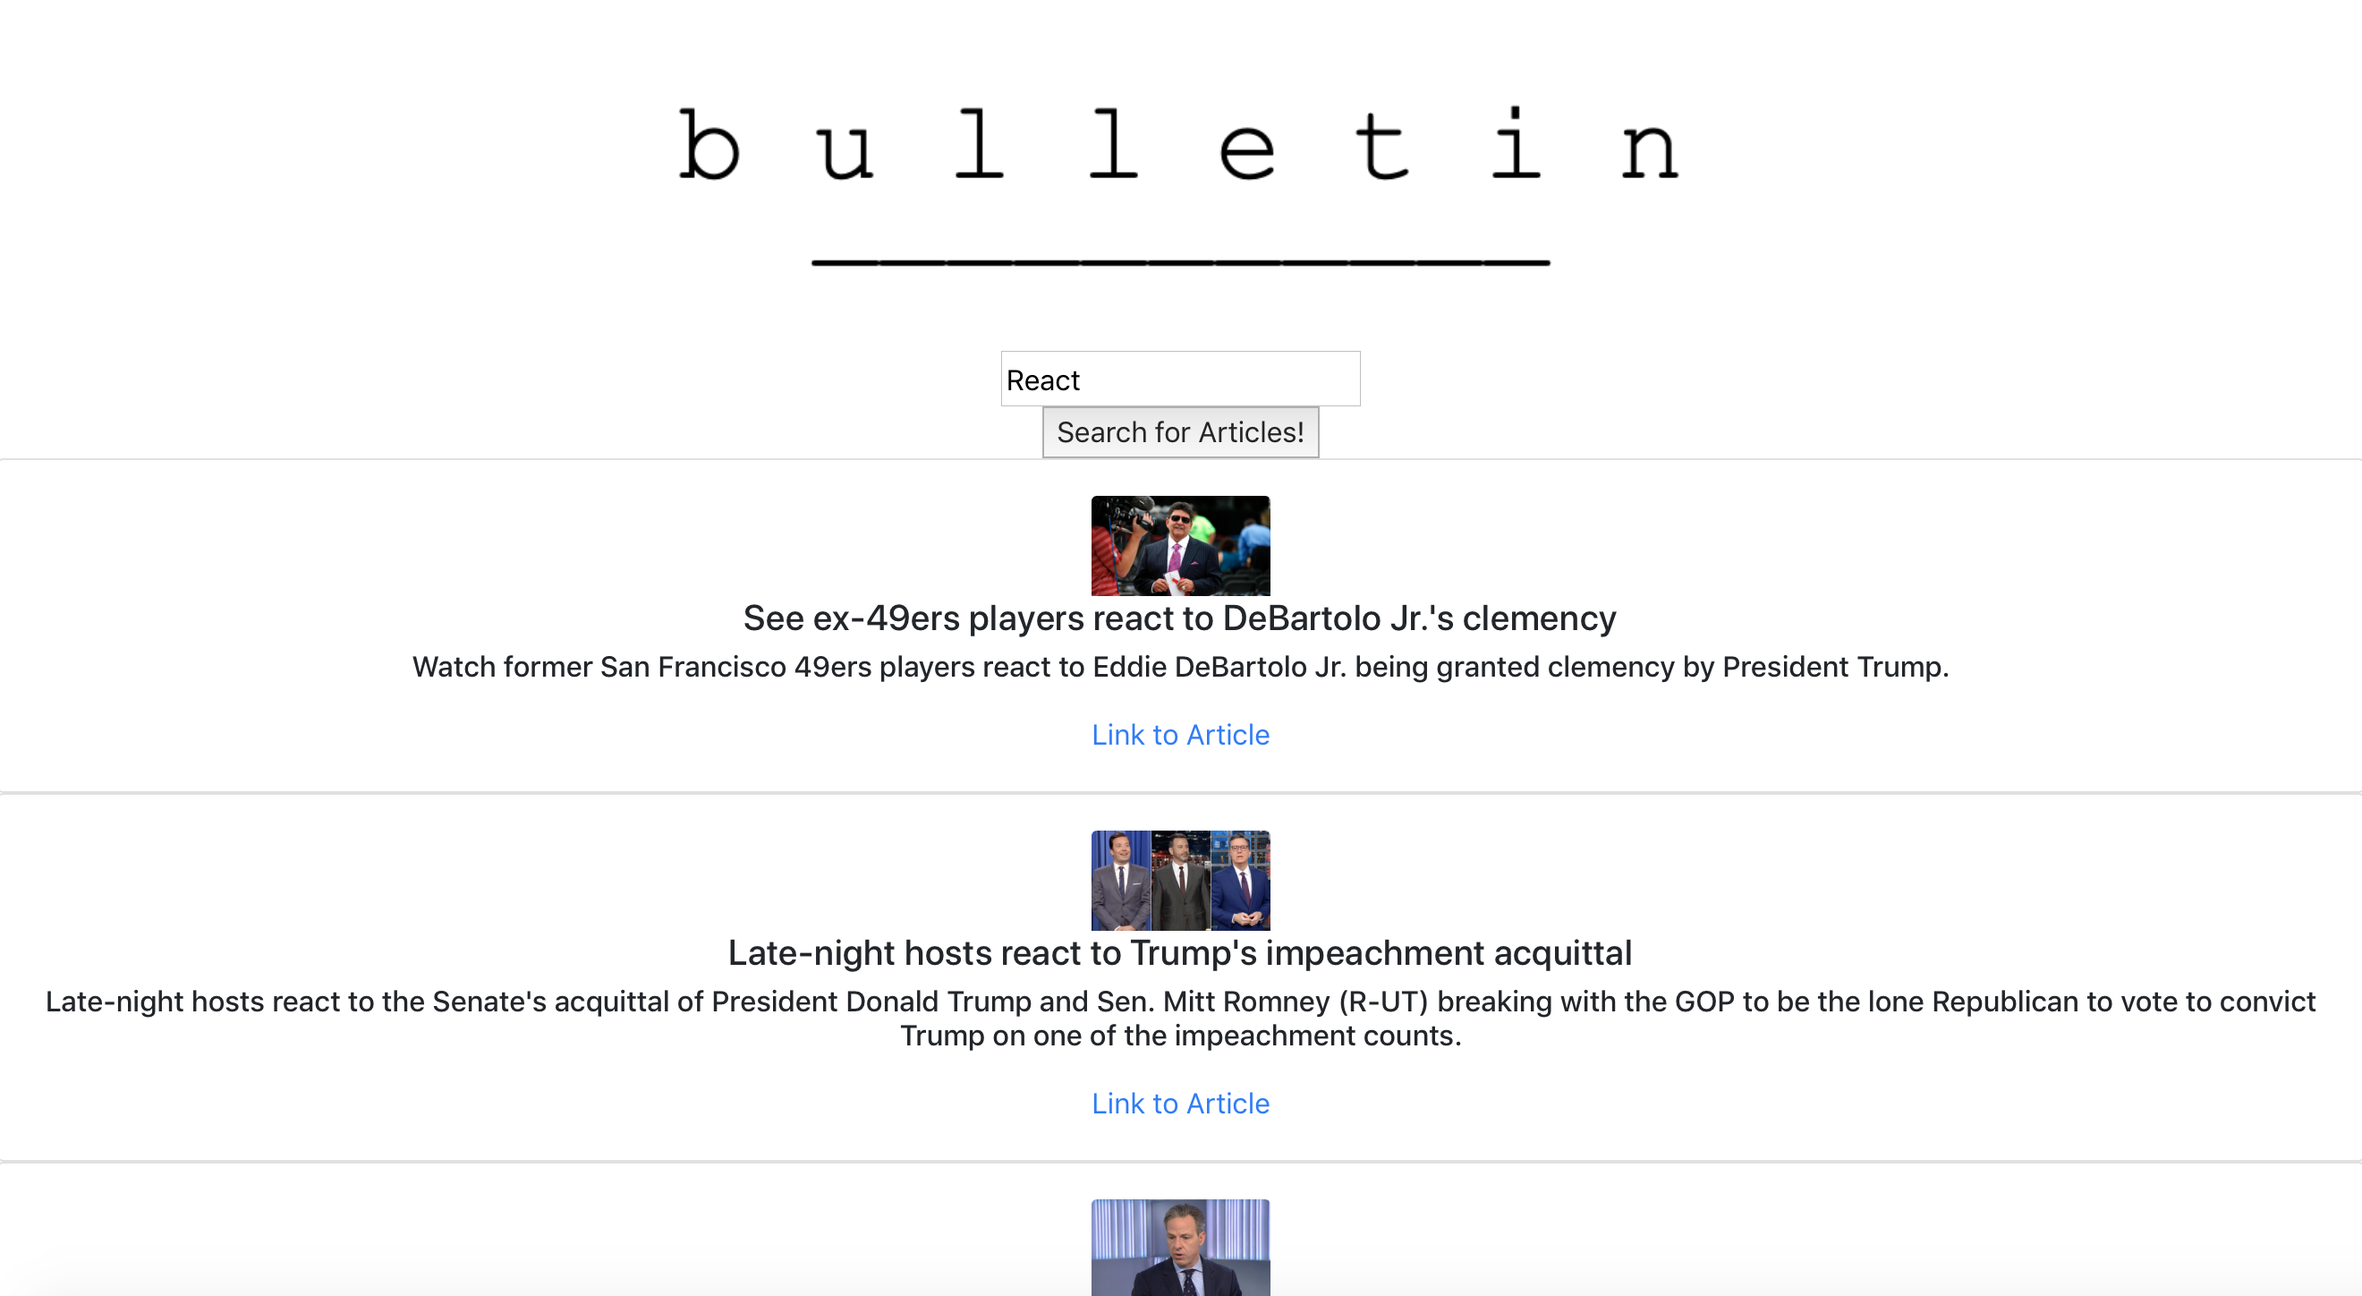
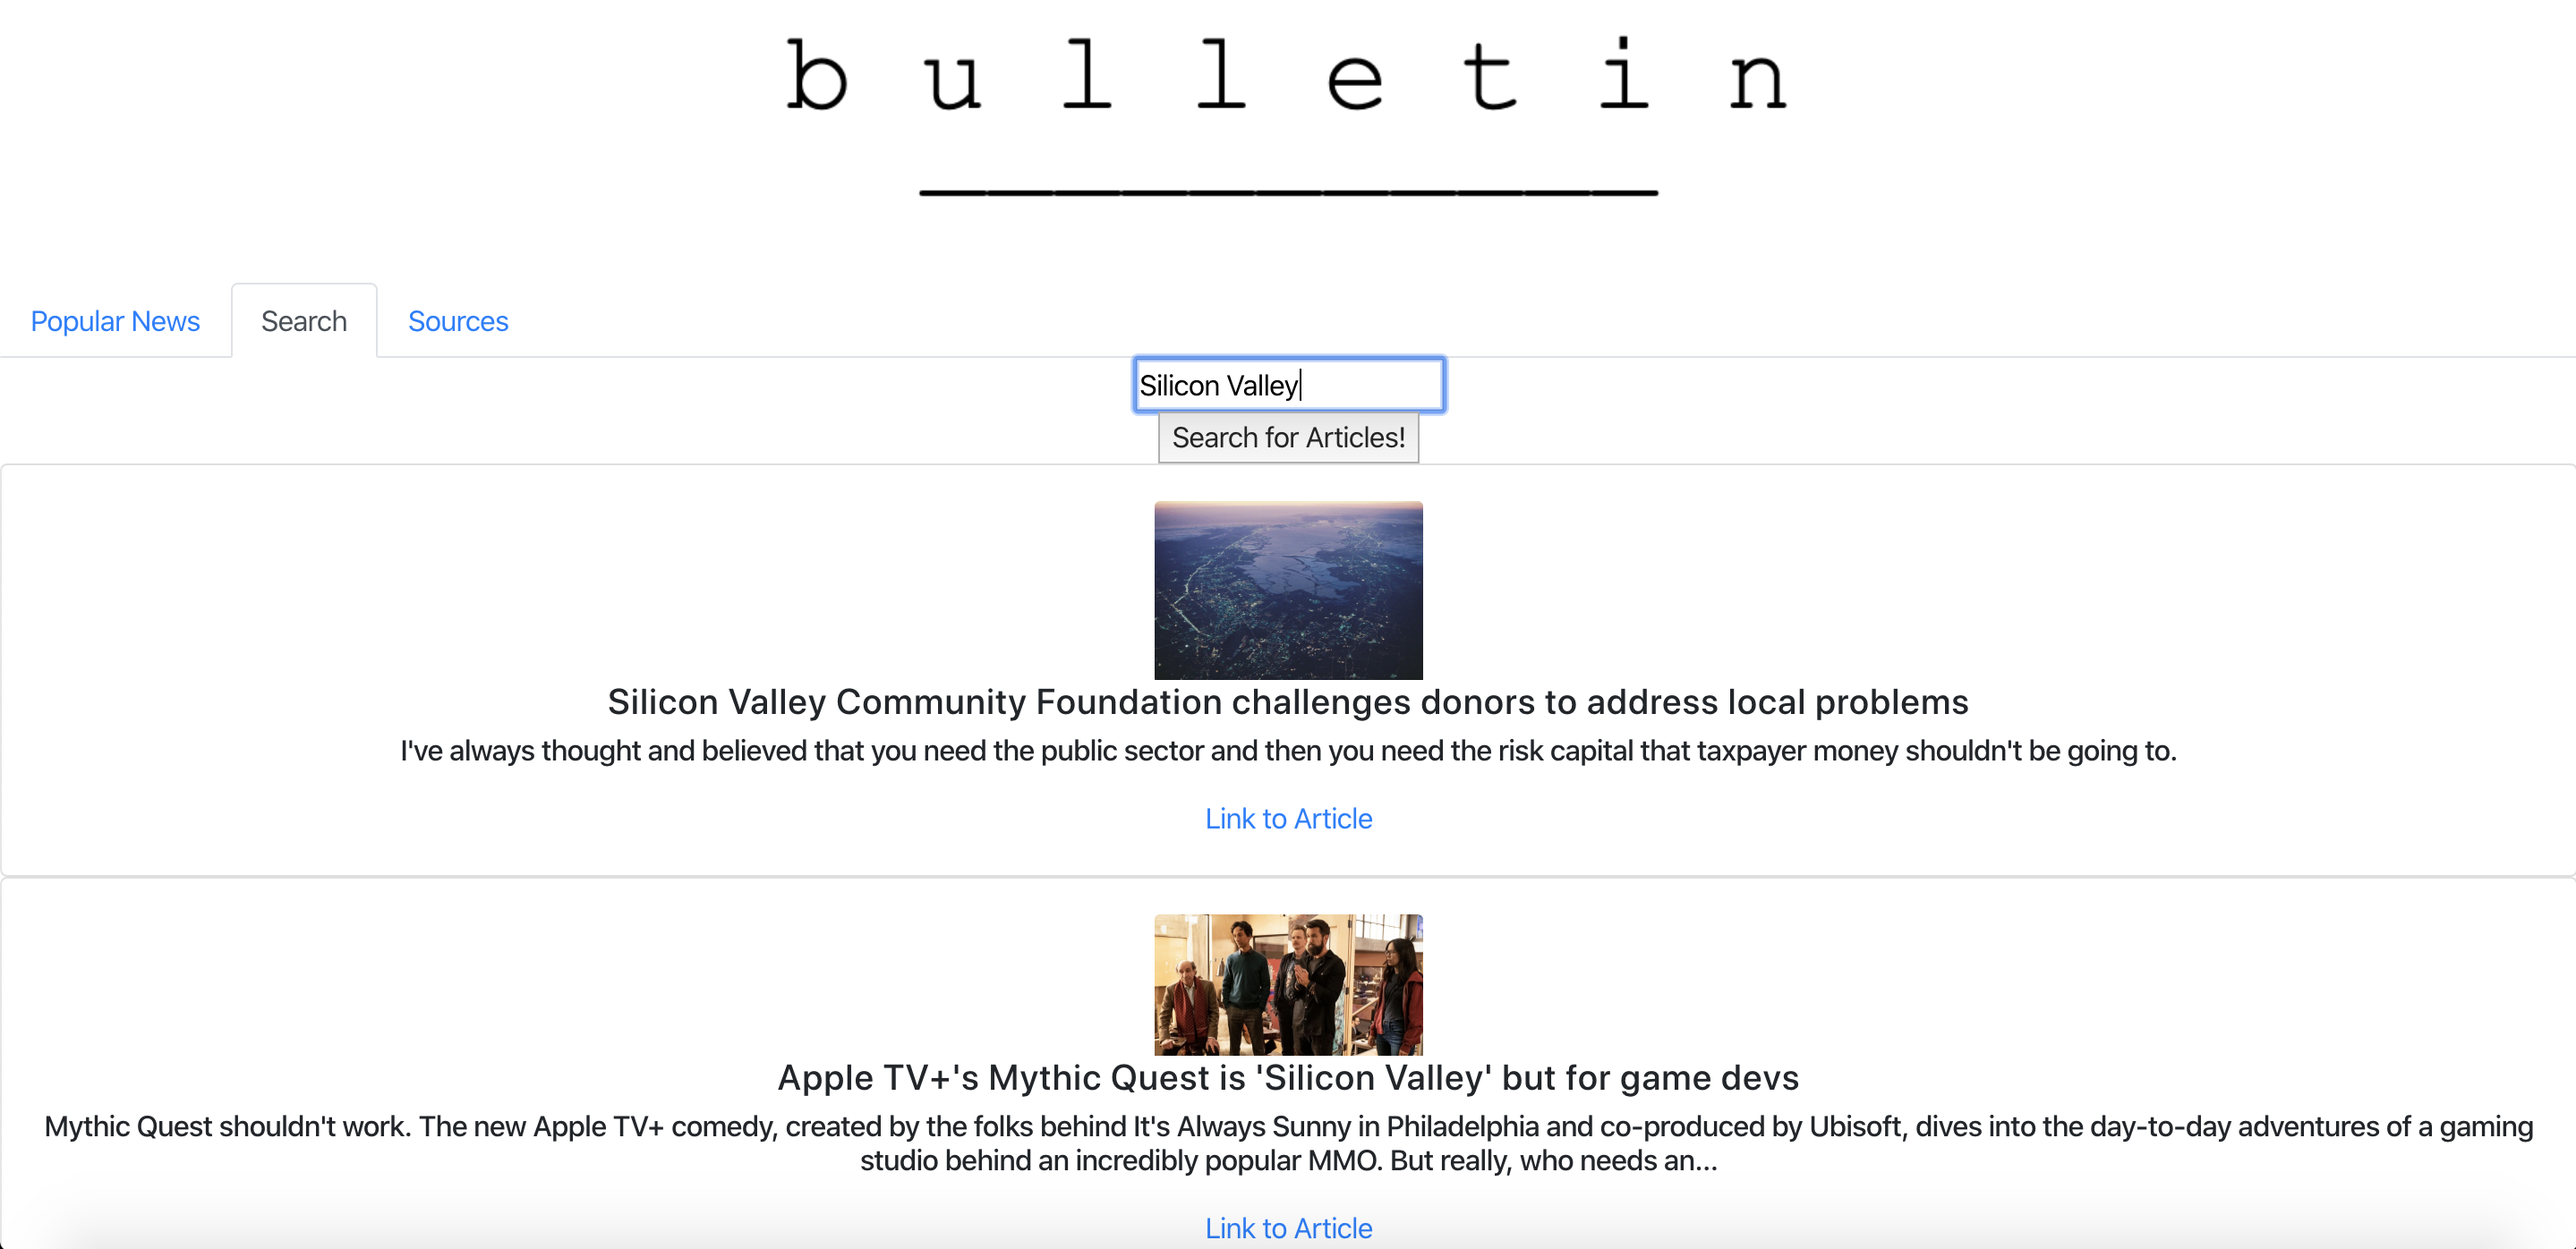
Updated the README

diff --git a/README.md b/README.md
@@ -13,9 +13,11 @@ Bulletin was created by Jigar Swaminarayan, Saad Salman, Maya Epps, and Tigerlil
 
 - Search bar
 - Popular news
+- Sources
 
-![homepage](homepage.png)
+![popularnews](popularnews.png)
 ![search](search.png)
+![sources](sources.png)
 
 
 
